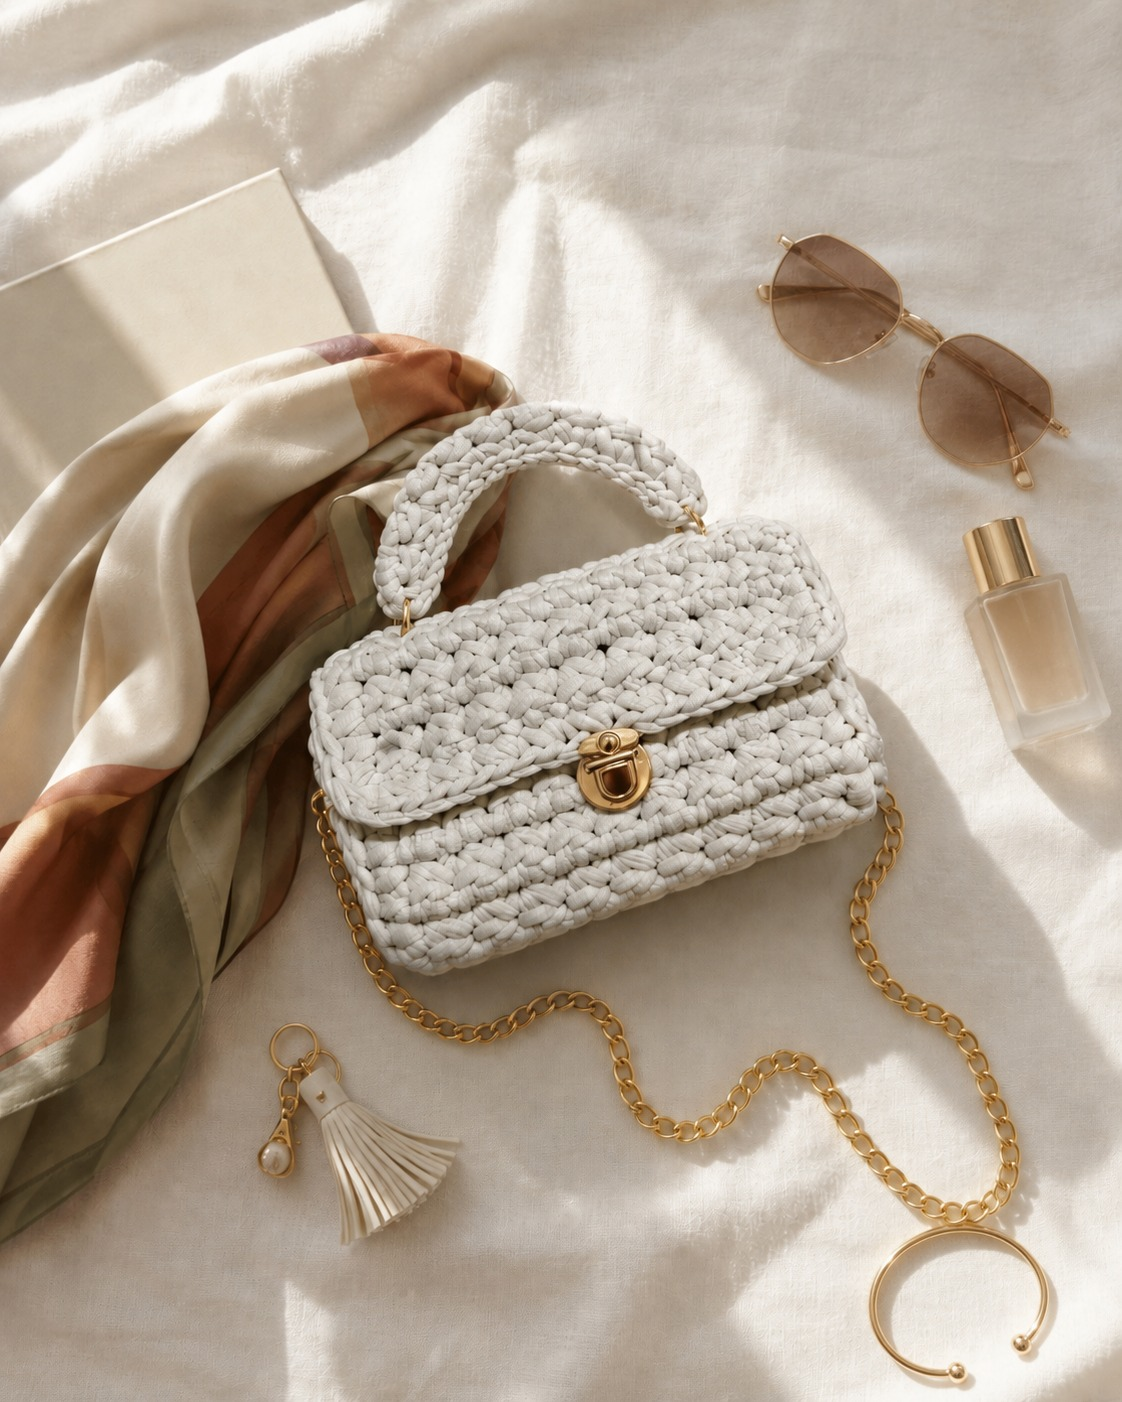
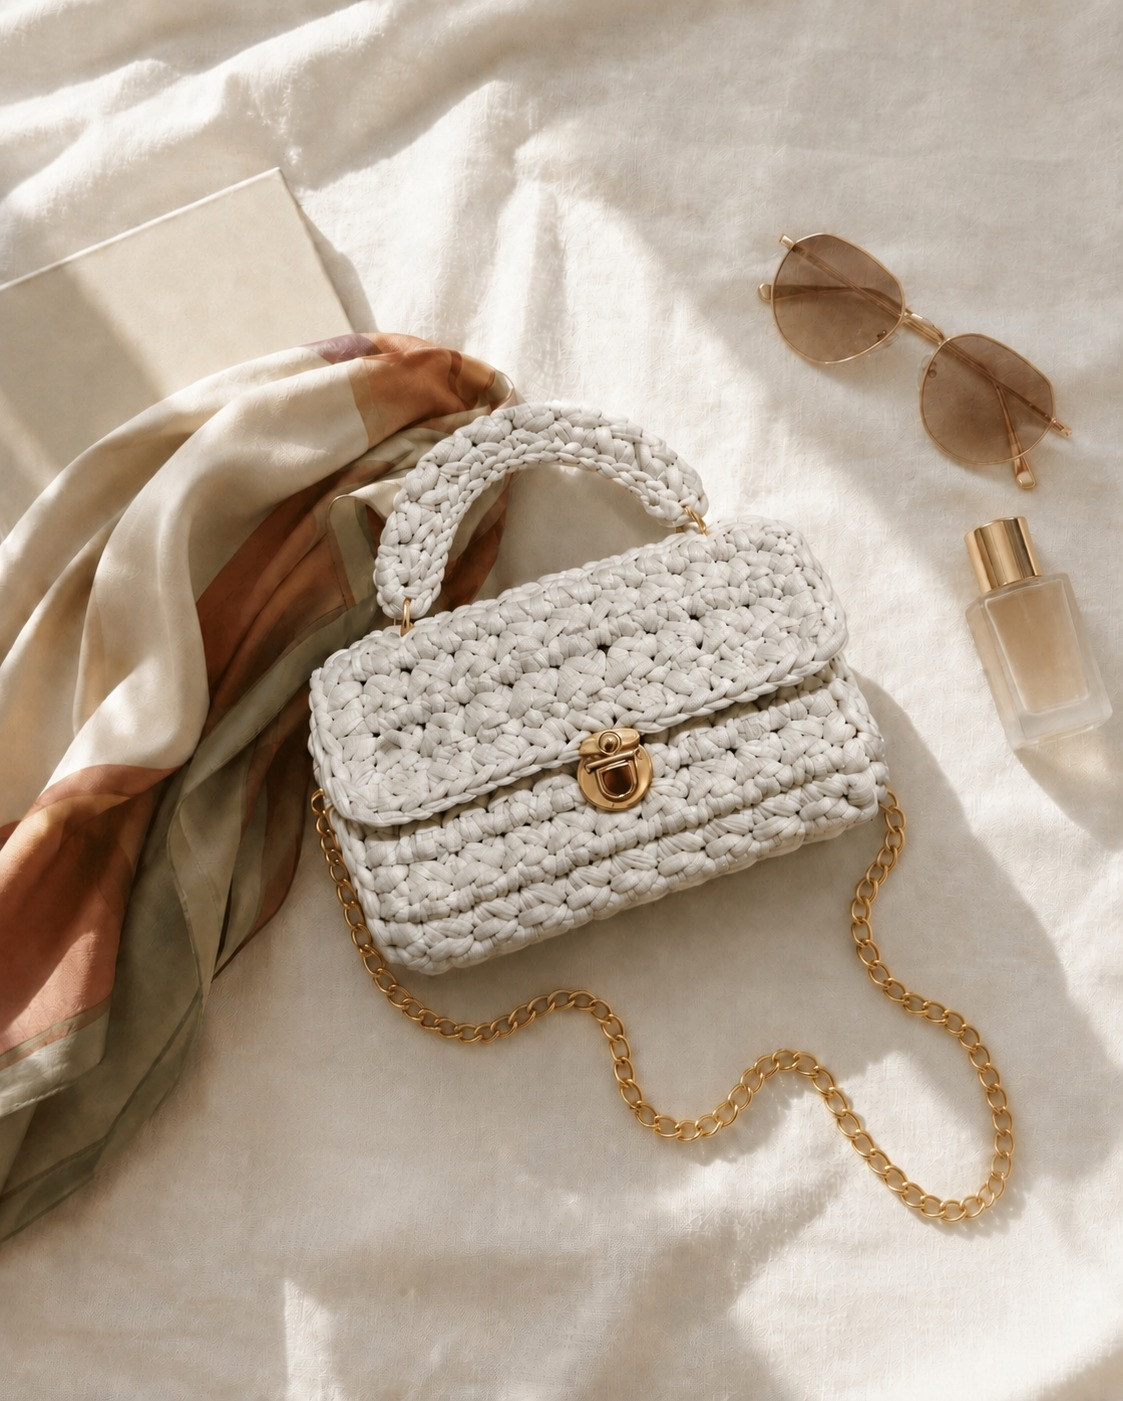
Mudar img

diff --git a/assets/js/produtos.js b/assets/js/produtos.js
@@ -26,8 +26,13 @@ const produtos = [
     variantes: [
       {
         corHex: "#F4E5B1",
-        corNome: "Café Escuro",
+        corNome: "Baunilha",
         imagem: "/assets/img/bolsa-amarelada.jpeg",
+      },
+      {
+        corHex: "#D60F3E",
+        corNome: "Cereja",
+        imagem: "/assets/img/bolsa-vermelha-normal.jpeg",
       },
       // {
       //   corHex: "#440512",
@@ -58,12 +63,12 @@ const produtos = [
       },
       {
         corHex: "#D2CDC4",
-        corNome: "Café Escuro",
+        corNome: "Linho",
         imagem: "/assets/img/bolsa-chanel-branco.jpeg",
       },
       {
         corHex: "#151517",
-        corNome: "Vinho",
+        corNome: "Preto Noite",
         imagem: "/assets/img/bolsa-preta-com-sapato.jpeg",
       },
     ],
@@ -85,7 +90,7 @@ const produtos = [
     variantes: [
       {
         corHex: "#64370D",
-        corNome: "Vinho",
+        corNome: "Café",
         imagem: "/assets/img/bolsa-marrom-menor-designer-diferente.jpeg",
       },
       // {
@@ -111,35 +116,8 @@ const produtos = [
     },
     variantes: [
       {
-        corHex: "#D60F3E",
-        corNome: "Vinho",
-        imagem: "/assets/img/bolsa-vermelha-normal.jpeg",
-      },
-      // {
-      //   corHex: "#D9CE9E",
-      //   corNome: "Café Escuro",
-      //   imagem: "./assets/img/bolsa-amarela.jpeg",
-      // },
-    ],
-  },
-  {
-    id: 5,
-    nome: "Bolsa Mini 'Vinho'",
-    descricao:
-      "Bolsa compacta para passeios, eventos e composições elegantes. Feita em crochê com toque artesanal premium.",
-    destaque: false,
-    categoria: "Bolsas",
-    badge: "Novo",
-    preco: {
-      pix: "R$ 129,90",
-      parcelado: "R$ 139,90",
-      parcelas: 2,
-      valorParcela: "R$ 69,95",
-    },
-    variantes: [
-      {
         corHex: "#14120F",
-        corNome: "Vinho",
+        corNome: "Café Intenso",
         imagem: "/assets/img/bolsa-preta-oval.jpeg",
       },
       // {